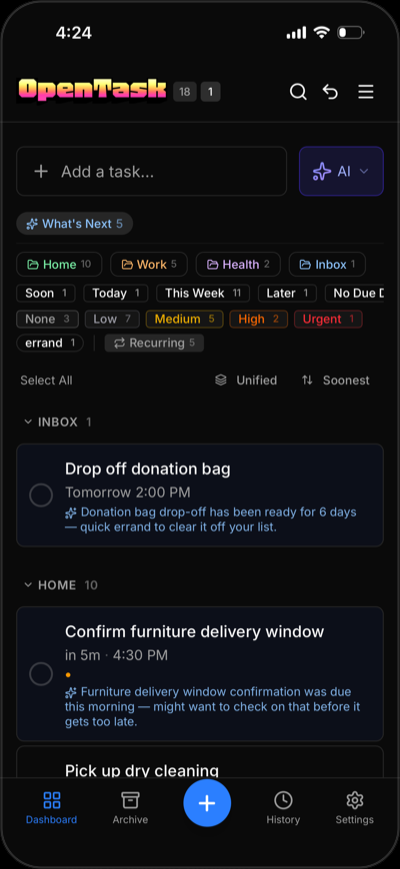
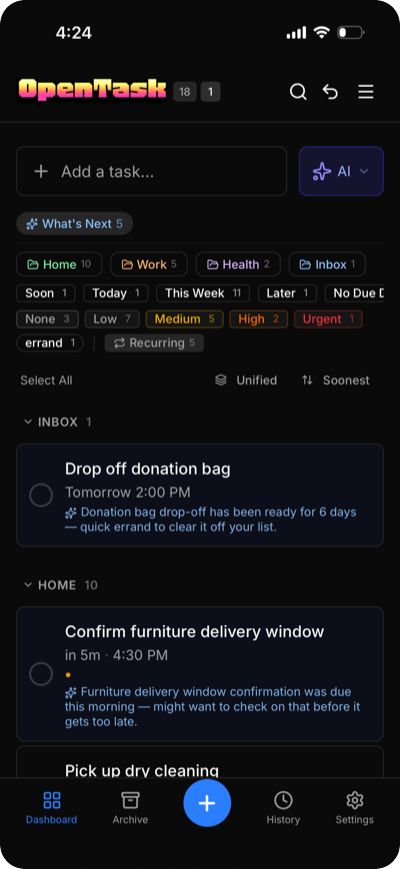
fix: README screenshots, broken image, and terminology
- Add rounded corners with transparency to iOS screenshots (no more
  black corners on light backgrounds)
- Commit task-card-ai-insight-readme.png (was untracked, broken on GitHub)
- Fix AI score terminology: "priority score"/"relevance score" → "attention
  score" (matches codebase)
- Fix docker-compose.yml AI comment (was referencing Claude Code)

Changed region(s): [[0.0, 0.0, 1.0, 1.0], [0.0, 0.0, 0.06, 0.0621]]

diff --git a/README.md b/README.md
@@ -61,13 +61,13 @@ It runs as a single Docker container with SQLite — no Postgres, no Redis, no e
 
 ## 🧠 AI-native task management (optional)
 
-Every task gets AI-generated commentary and a priority score. AI sees your full task list and writes a one-liner — what it means, why it matters, what you might be forgetting.
+Every task gets AI-generated commentary and an attention score. AI sees your full task list and writes a one-liner — what it means, why it matters, what you might be forgetting.
 
 <p align="center">
-  <img src="docs/images/task-card-ai-insight-readme.png" alt="Task card with AI commentary and priority score" width="400">
+  <img src="docs/images/task-card-ai-insight-readme.png" alt="Task card with AI commentary and attention score" width="400">
 </p>
 
-- **Commentary + scoring** — Each task gets a contextual one-liner and a relevance score. Filter by Stale, Act Soon, Quick Win, or Misprioritized.
+- **Commentary + scoring** — Each task gets a contextual one-liner and an attention score. Filter by Stale, Act Soon, Quick Win, or Misprioritized.
 - **Natural language input** — Type tasks in plain English. AI extracts the title, due date, recurrence, priority, project, and notes.
 - **What's Next** — Recommendations that surface overlooked or forgotten tasks.
 - **Entirely optional** — Disabled by default. Turn it off and every trace of AI disappears from the UI. Works with Claude, GPT-4.1-mini, Grok, DeepSeek, Ollama, and others.
